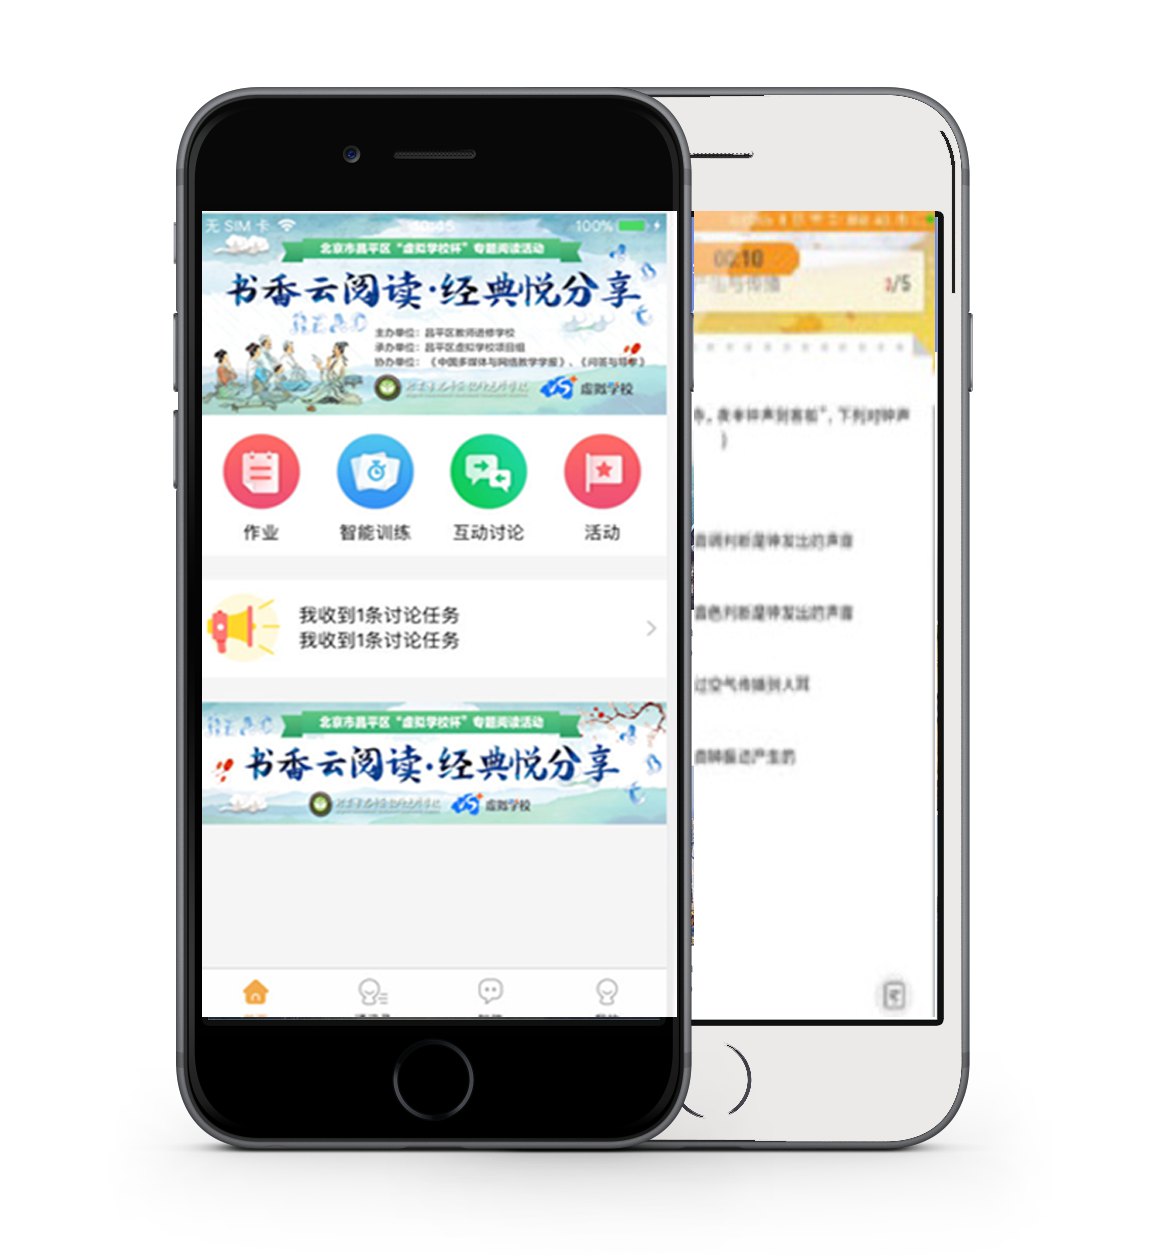
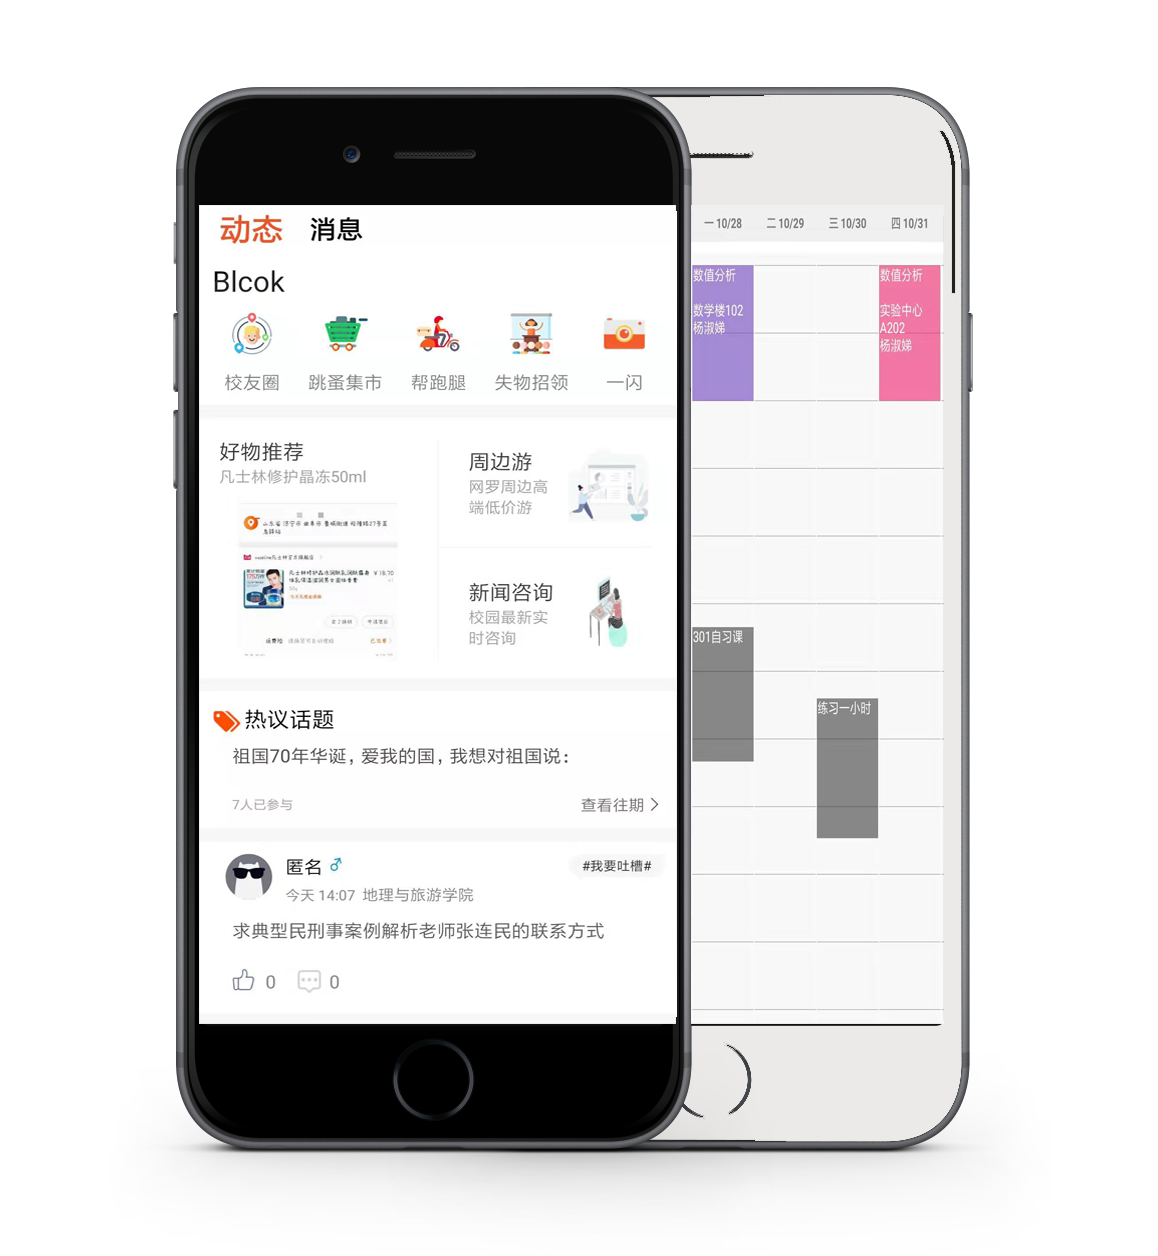
修改app介绍图片

Changed region(s): [[0.1554, 0.1553, 0.8394, 0.8384]]

diff --git a/index.html b/index.html
@@ -221,11 +221,11 @@
 
         <!-- Start Video content -->
         <div class="mu-video-content">
-            <!-- <div class="mu-video-iframe-area">
+            <div class="mu-video-iframe-area">
                 <a class="mu-video-close-btn" href="#"><i class="fa fa-times" aria-hidden="true"></i></a>
-                <iframe class="mu-video-iframe" width="854" height="480" src="https://www.baidu.com/" frameborder="0"
+                <iframe class="mu-video-iframe" width="854" height="480" src="https://weibo.com/tv/v/I2Gj8mZId?fid=1034:4406392422086494" frameborder="0"
                         allowfullscreen></iframe>
-            </div> -->
+            </div>
         </div>
         <!-- End Video content -->
 
@@ -242,8 +242,7 @@
                         <div class="mu-title-area">
                             <h2 class="mu-title">软件截图</h2>
                             <span class="mu-title-dot"></span>
-                            <p>
-                                乐云校是一款专注k12教育领域的移动应用，面向学校、教师、学生、家长提供教学、学习、研修、家校、管理与评价一体化的教育应用服务，解决教育教学中的痛点问题，促进家校全面互动，让每个学生都能享受优质教育。.</p>
+                            <p>教务深度结合社区,一款重新定义你大学生活的社交APP.</p>
                         </div>
 
 
